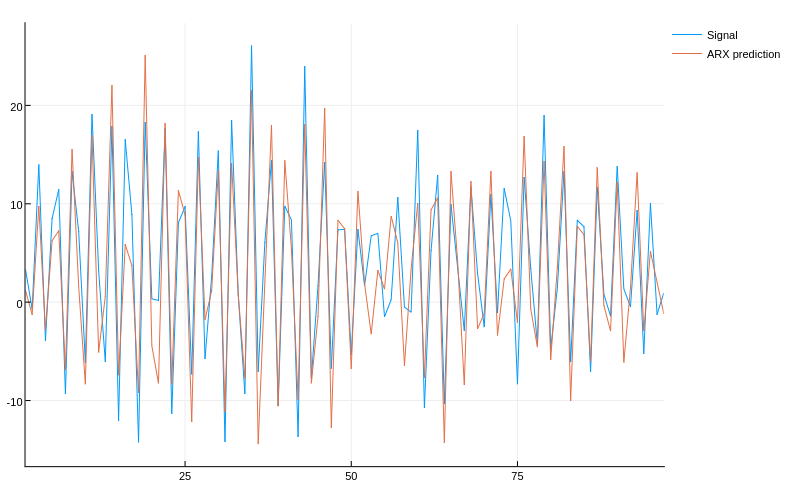
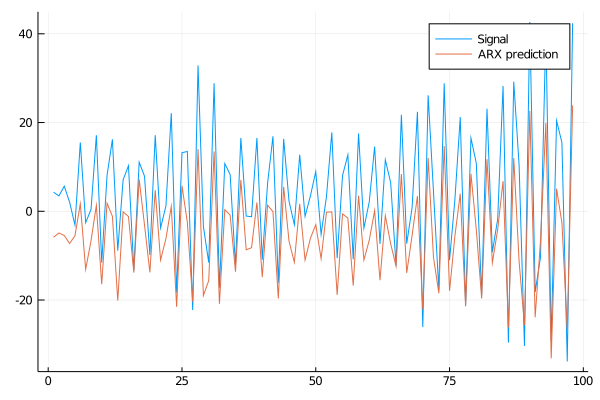
Modernisation

diff --git a/README.md b/README.md
@@ -122,18 +122,18 @@ y = filt(B,A,sqrt.(abs.(u)))
 
 We can now try to fit a regular ARX model to this input-output data
 ```julia
-yr,A  = getARXregressor(y,u,3,2) # We assume that we know the system order 3,2
+yr,A  = getARXregressor(y,u,2,2) # We assume that we know the system order 3,2
 x     = A\yr                     # Fit using standard least-squares
-e_arx = √(mean((yr - A*x).^2))   # Calculate RMS error (4.2553882233771025)
+e_arx = √(mean((yr - A*x).^2))   # Calculate RMS error (11.2)
 plot([yr A*x], lab=["Signal" "ARX prediction"])
 ```
 ![window](figs/arx.png)
 
-Due to the non-linearity at the input of the system, the linear model fails to fit the data well. Our next attempt is a non-linear model based on BFEs. We select the simplest form of multi-dimensional BFE, `MultiUniformRBFE` and further select to cover the state-space with 2 basis functions along each dimension corresponding to `y`, and 4 basis functions along each dimension corresponding to `u` for a total of 2^2*4^3=256 parameters (4 basis functions is the smallest number that can somewhat accurately fit `√(|u|)`). The number of parameters in this case is large compared to the number of data points, we will need some regularization to fit this model properly. The regularization choice is made when forming the `BasisFunctionApproximation` and the strength is determined by the last argument `1e-3` in this case.
+Due to the non-linearity at the input of the system, the linear model fails to fit the data well. Our next attempt is a non-linear model based on BFEs. We select the simplest form of multi-dimensional BFE, `MultiUniformRBFE` and further select to cover the state-space with a single basis functions along each dimension corresponding to `y`, which falls back onto a linear function, and 4 basis functions along each dimension corresponding to `u` for a total of 1^2*4^2=16 parameters (4 basis functions is the smallest number that can somewhat accurately fit `√(|u|)`). The number of parameters in this case is large compared to the number of data points, we will need some regularization to fit this model properly. The regularization choice is made when forming the `BasisFunctionApproximation` and the strength is determined by the last argument `1e-3` in this case.
 ```julia
-bfe   = MultiUniformRBFE(A,[2,2,4,4,4], normalize=true)
+bfe   = MultiUniformRBFE(A,[1,1,4,4], normalize=true)
 bfa   = BasisFunctionApproximation(yr,A,bfe, 1e-3)
-e_bfe = √(mean((yr - bfa(A)).^2)) # (0.005174261451622258)
+e_bfe = √(mean((yr - bfa(A)).^2)) # (3.11)
 ```
 ![window](figs/bfe.png)
 
